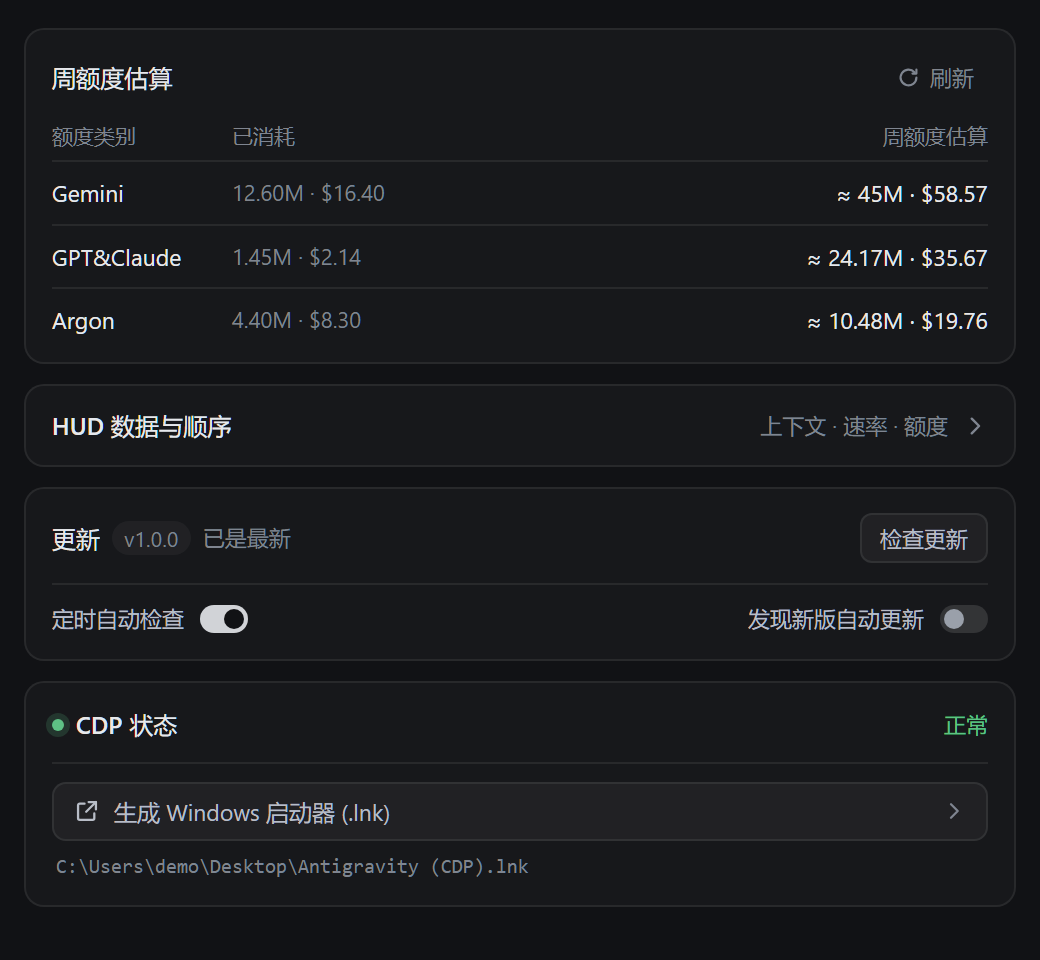
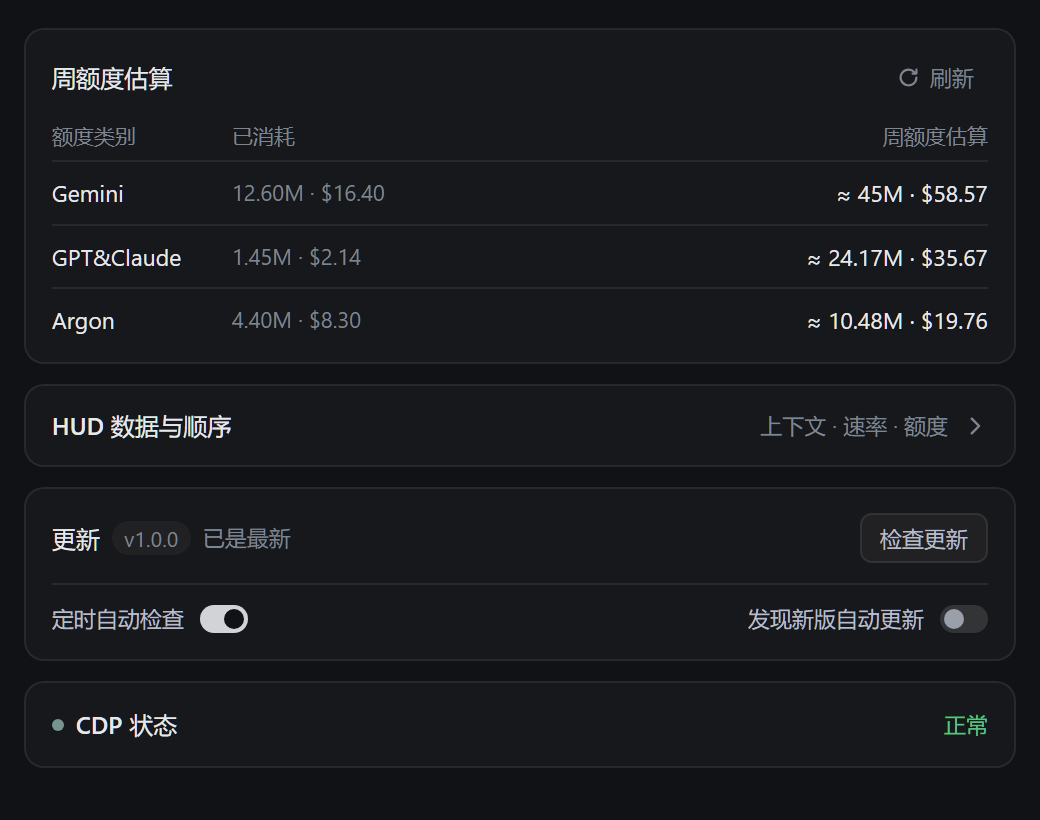
feat(hud): follow active conversation via CDP URL, clean Title Case model name, and hide CDP repair when healthy

diff --git a/sidecars/agy_hud/panel/index.html b/sidecars/agy_hud/panel/index.html
@@ -101,7 +101,7 @@
       </div>
     </section>
 
-    <!-- 4. CDP 状态（放到最后，只展示状态与启动器） -->
+    <!-- 4. CDP 状态（正常时仅单行状态；异常时才展示提醒与生成启动器） -->
     <section class="panel-group">
       <div class="group-head">
         <div class="title-inline">
@@ -110,22 +110,27 @@
         </div>
         <span class="status-badge" id="cdpStateText">检测中</span>
       </div>
-      <p class="cdp-alert" id="cdpAlertText" hidden></p>
-      <div class="cdp-foot">
-        <button class="btn-row" id="btnGenerateLauncher" type="button">
-          <span class="btn-row-left">
-            <svg viewBox="0 0 16 16" width="13" height="13" fill="none" stroke="currentColor" stroke-width="1.4" stroke-linecap="round" stroke-linejoin="round" aria-hidden="true">
-              <path d="M6.5 3.5H3.5a1 1 0 0 0-1 1v8a1 1 0 0 0 1 1h8a1 1 0 0 0 1-1v-3" />
-              <path d="M9 2.5h4.5V7" />
-              <path d="M13.5 2.5L7.5 8.5" />
+      <div id="cdpRepairArea" hidden>
+        <p class="cdp-alert" id="cdpAlertText"></p>
+        <div class="cdp-foot">
+          <button class="btn-row" id="btnGenerateLauncher" type="button">
+            <span class="btn-row-left">
+              <svg viewBox="0 0 16 16" width="13" height="13" fill="none" stroke="currentColor" stroke-width="1.4" stroke-linecap="round" stroke-linejoin="round" aria-hidden="true">
+                <path d="M6.5 3.5H3.5a1 1 0 0 0-1 1v8a1 1 0 0 0 1 1h8a1 1 0 0 0 1-1v-3" />
+                <path d="M9 2.5h4.5V7" />
+                <path d="M13.5 2.5L7.5 8.5" />
+              </svg>
+              <span id="btnGenerateLauncherLabel">生成启动器</span>
+            </span>
+            <svg class="btn-row-arrow" viewBox="0 0 16 16" width="12" height="12" fill="none" stroke="currentColor" stroke-width="1.5" stroke-linecap="round" stroke-linejoin="round" aria-hidden="true">
+              <path d="M6 3.5L10.5 8L6 12.5" />
             </svg>
-            <span id="btnGenerateLauncherLabel">生成启动器</span>
-          </span>
-          <svg class="btn-row-arrow" viewBox="0 0 16 16" width="12" height="12" fill="none" stroke="currentColor" stroke-width="1.5" stroke-linecap="round" stroke-linejoin="round" aria-hidden="true">
-            <path d="M6 3.5L10.5 8L6 12.5" />
-          </svg>
-        </button>
-        <div class="path-note" id="launcherResult" hidden></div>
+          </button>
+          <div class="cdp-success" id="launcherResultBox" hidden>
+            <div class="cdp-success-msg" id="launcherResultMsg"></div>
+            <div class="path-note" id="launcherResult"></div>
+          </div>
+        </div>
       </div>
     </section>
   </div>

diff --git a/sidecars/agy_hud/panel/app.js b/sidecars/agy_hud/panel/app.js
@@ -212,12 +212,23 @@
     return `当前未处于 CDP 注入状态。请彻底退出 Antigravity 后，使用带 --remote-debugging-port=${port || 9229} 参数的命令重新启动。`;
   }
 
+  function buildLauncherSuccessMessage(platform) {
+    if (platform === 'darwin') {
+      return '已生成 macOS 启动器。请按 Cmd+Q 彻底退出 Antigravity，再打开下方 .app 应用重新启动：';
+    }
+    if (platform === 'win32') {
+      return '已生成 Windows 启动器。请彻底退出 Antigravity（含托盘图标），再双击下方快捷方式重新启动：';
+    }
+    return '已生成启动命令。请彻底退出 Antigravity 后使用下方命令重新启动：';
+  }
+
   function render() {
     if (!state) return;
     const { config, cdpStatus, platform, launcherInfo, catalogs, snapshot, currentVersion, updateStatus } = state;
 
     const dot = $('statusDot');
     const badge = $('cdpStateText');
+    const repairArea = $('cdpRepairArea');
     const alertEl = $('cdpAlertText');
     const isConnected = Boolean(cdpStatus?.connected);
 
@@ -228,11 +239,11 @@
 
     if (isConnected) {
       badge.textContent = '正常';
-      alertEl.hidden = true;
+      repairArea.hidden = true;
     } else {
       badge.textContent = '异常';
+      repairArea.hidden = false;
       alertEl.textContent = buildCdpAlertMessage(platform, config?.cdpPort);
-      alertEl.hidden = false;
     }
 
     $('btnGenerateLauncherLabel').textContent =
@@ -242,10 +253,14 @@
           ? '生成 macOS 启动器 (.app)'
           : '显示启动命令';
 
-    if (launcherInfo) {
-      const box = $('launcherResult');
+    if (launcherInfo && !isConnected) {
+      const box = $('launcherResultBox');
       box.hidden = false;
-      box.textContent = launcherInfo.lnkPath || launcherInfo.bundlePath || launcherInfo.manualCommand || '';
+      $('launcherResultMsg').textContent = buildLauncherSuccessMessage(platform);
+      $('launcherResult').textContent =
+        launcherInfo.lnkPath || launcherInfo.bundlePath || launcherInfo.manualCommand || '';
+    } else {
+      $('launcherResultBox').hidden = true;
     }
 
     $('versionBadge').textContent = `v${currentVersion || '1.0.0'}`;

diff --git a/sidecars/agy_hud/panel/styles.css b/sidecars/agy_hud/panel/styles.css
@@ -18,6 +18,8 @@
   --switch-knob-off: #9aa0aa;
   --switch-knob-on: #111215;
   --ok: #5ec285;
+  --ok-bg: rgba(94, 194, 133, 0.08);
+  --ok-border: rgba(94, 194, 133, 0.24);
   --err: #e06c75;
   --err-bg: rgba(224, 108, 117, 0.08);
   --err-border: rgba(224, 108, 117, 0.22);
@@ -47,6 +49,8 @@
     --switch-knob-off: #ffffff;
     --switch-knob-on: #ffffff;
     --ok: #1d9a54;
+    --ok-bg: rgba(29, 154, 84, 0.07);
+    --ok-border: rgba(29, 154, 84, 0.22);
     --err: #c5221f;
     --err-bg: rgba(197, 34, 31, 0.06);
     --err-border: rgba(197, 34, 31, 0.18);
@@ -698,11 +702,27 @@ select option {
   color: var(--muted);
 }
 
+.cdp-success {
+  margin-top: 2px;
+  padding: 7px 9px;
+  border-radius: 7px;
+  background: var(--ok-bg);
+  border: 1px solid var(--ok-border);
+  display: flex;
+  flex-direction: column;
+  gap: 4px;
+}
+
+.cdp-success-msg {
+  font-size: 11px;
+  color: var(--ok);
+  line-height: 1.4;
+}
+
 .path-note {
   font-family: ui-monospace, SFMono-Regular, Menlo, Consolas, monospace;
   font-size: 10px;
-  color: var(--muted);
-  padding: 0 2px;
+  color: var(--text-soft);
   word-break: break-all;
   line-height: 1.4;
 }
